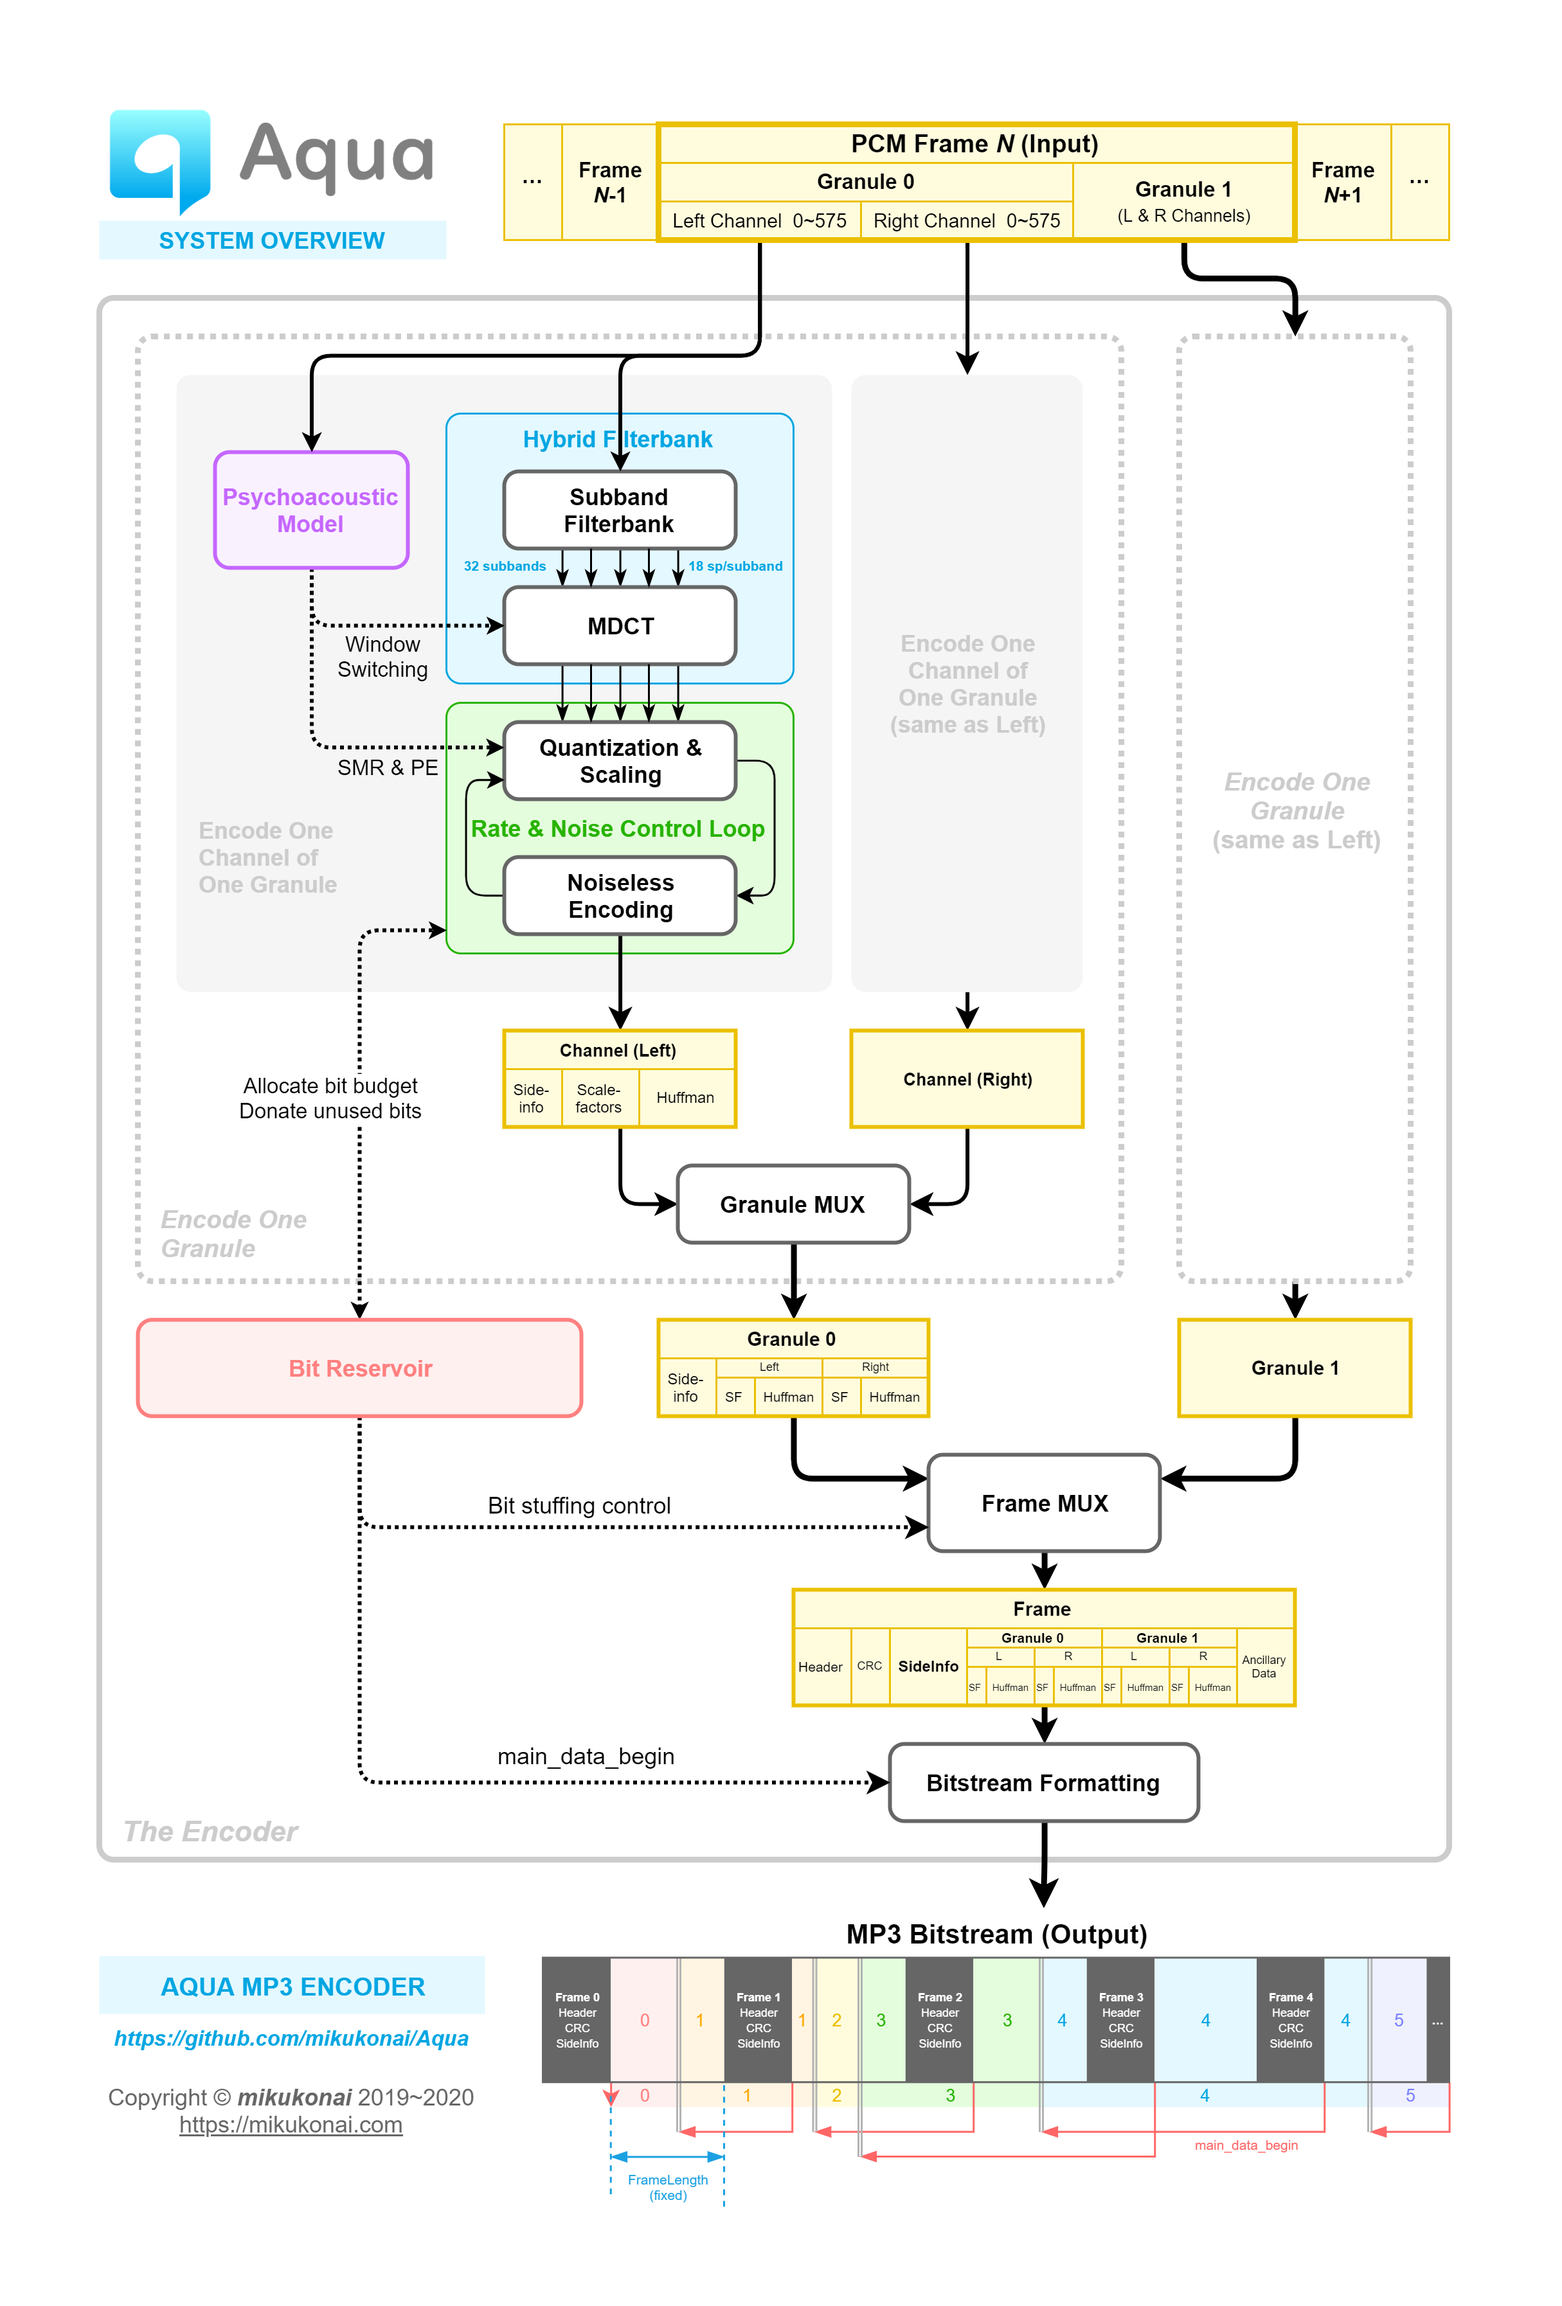
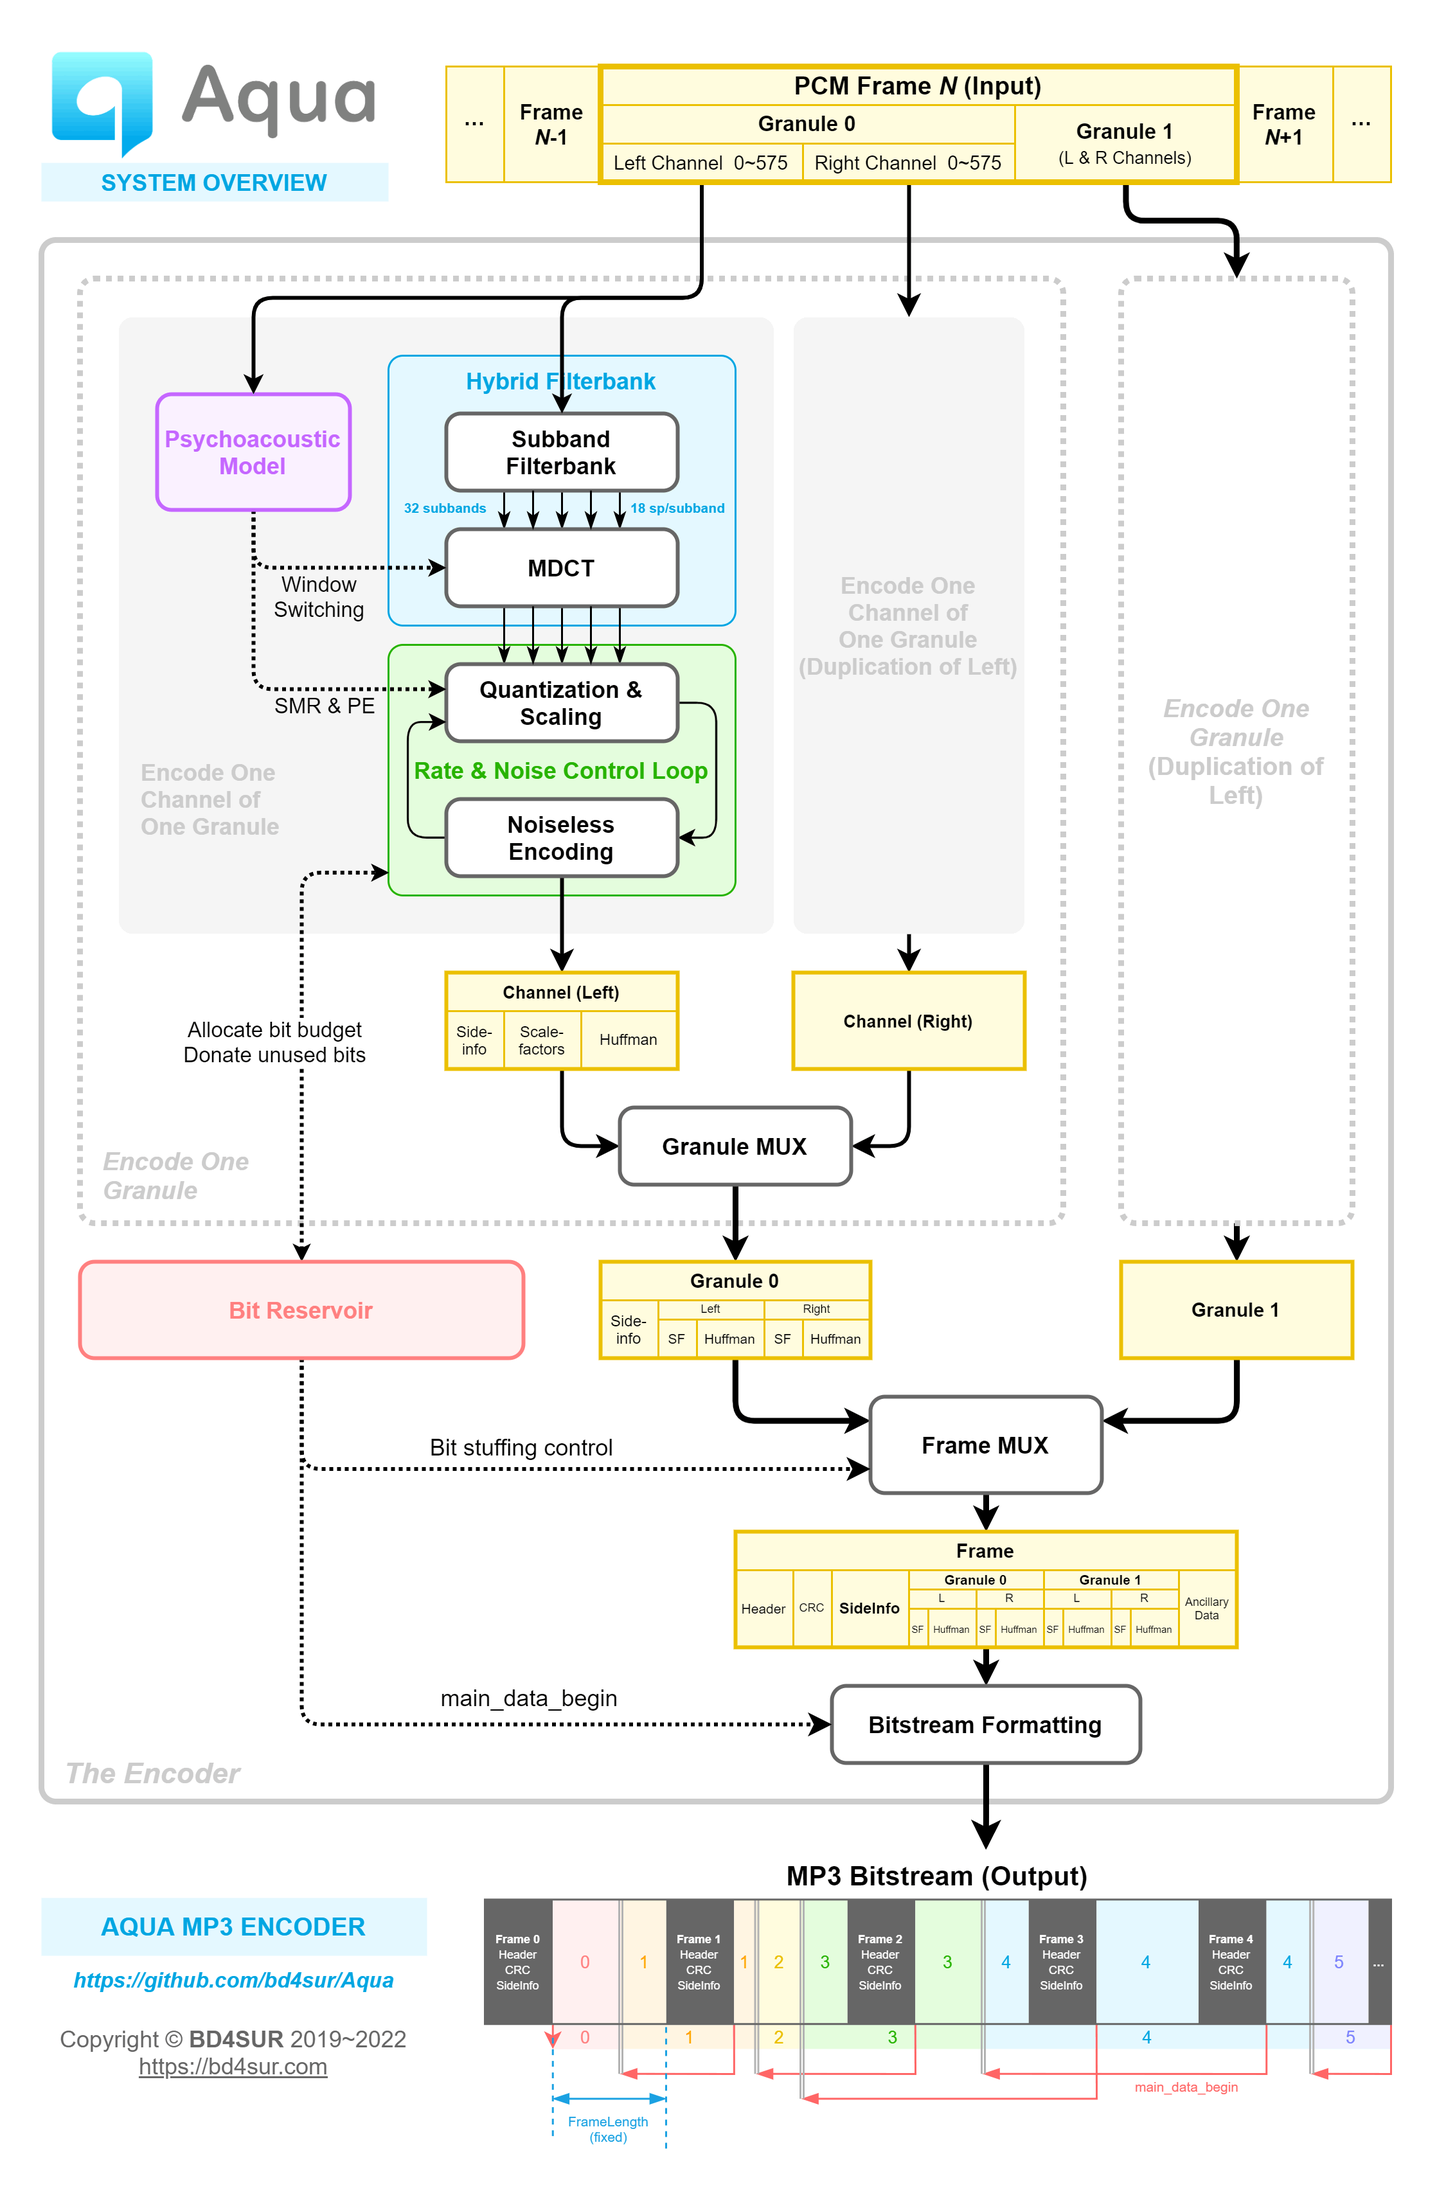
完善文档

diff --git a/README.md b/README.md
@@ -3,27 +3,19 @@
 
 ------
 
-MPEG-1 Audio Layer 3 (MP3) 音频编码器。依据 ISO/IEC 11172-3 及其配套的示例代码“dist10”实现。
+An experimental MP3 encoder. **DO NOT USE THIS ENCODER FOR SERIOUS PURPOSES! (e.g. archiving, broadcasting, etc.)**
 
-本编码器仅供作者个人学习研究，请勿用于正式的（尤其是以存档为目的的）音频编码工作。请务必使用LAME等成熟的编码器。
+实验性 MPEG-1 Audio Layer 3 (MP3) 音频编码器。依据 ISO/IEC 11172-3 及其配套的示例代码“dist10”实现，用于MP3编码算法学习、验证。本系统不含解码器。
 
-**▶ [可视化演示](https://bd4sur.com/Aqua/index.html)**
+**警示：本编码器仅供作者个人学习研究，并不成熟可靠，请勿用于严肃的音频编码任务，如音频存档、正式广播等。请务必使用ffmpeg、LAME等成熟的编码器。**
+
+**▶ [可视化交互原型](https://bd4sur.com/Aqua/index.html)**
 
 ## 特性规划
 
-计划开发的特性：
+计划开发的特性：第二心理声学模型、联合立体声。
 
-- 第二心理声学模型
-- 联合立体声
-
-暂不实现的特性：
-
-- 混合块
-- 尺度因子预测（即scfsi）
-- 低采样率支持（MPEG-2标准）
-- VBR（非标准）
-- ID3标签（非标准）
-- 回放增益（非标准）
+暂不实现的特性：混合块、尺度因子预测（即scfsi）、低采样率支持（MPEG-2标准）、VBR（非标准）、ID3标签（非标准）、回放增益（非标准）等等。
 
 ## 开发进度
 
@@ -62,7 +54,7 @@ MPEG-1 Audio Layer 3 (MP3) 音频编码器。依据 ISO/IEC 11172-3 及其配套
 
 ## 权利声明
 
-版权所有 © 2019 BD4SUR@GitHub，保留所有权利。
+版权所有 © 2019~2022 BD4SUR，保留所有权利。
 
 采用MIT协议授权。
 
